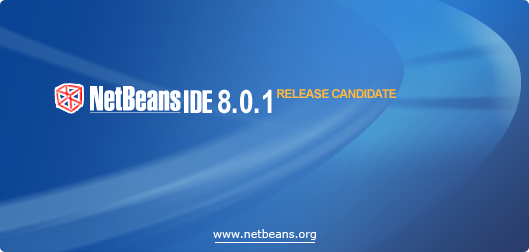
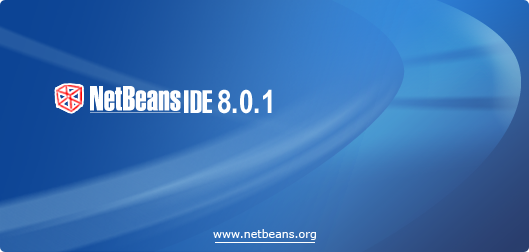
8.0.1 final branding.

Changed region(s): [[0.5142, 0.3333, 0.7561, 0.3889]]

diff --git a/installer/infra/build/web/start.html b/installer/infra/build/web/start.html
@@ -2,7 +2,7 @@
 <!--
   DO NOT ALTER OR REMOVE COPYRIGHT NOTICES OR THIS HEADER.
 
-  Copyright 1997-2010 Oracle and/or its affiliates. All rights reserved.
+  Copyright 1997-2014 Oracle and/or its affiliates. All rights reserved.
 
   Oracle and Java are registered trademarks of Oracle and/or its affiliates.
   Other names may be trademarks of their respective owners.
@@ -180,12 +180,6 @@
                                                     replace("{1}",LICENSE_FILES_LINK).
                                                     replace("{2}",LICENSE_FILES_LINK))
                                             </script>
-                                            <br><br>
-                                                <p>
-                                                    <script type="text/javascript">
-                                                            message(LEGAL_WARNING_MESSAGE)
-                                                    </script>
-                                                </p>
                                         </div>
                                     </div>
 

diff --git a/installer/infra/build/web/index.html b/installer/infra/build/web/index.html
@@ -2,7 +2,7 @@
 <!--
   DO NOT ALTER OR REMOVE COPYRIGHT NOTICES OR THIS HEADER.
 
-  Copyright 1997-2012 Oracle and/or its affiliates. All rights reserved.
+  Copyright 1997-2014 Oracle and/or its affiliates. All rights reserved.
 
   Oracle and Java are registered trademarks of Oracle and/or its affiliates.
   Other names may be trademarks of their respective owners.
@@ -278,12 +278,6 @@
                                         replace("{1}",LICENSE_FILES_LINK).
                                         replace("{2}",LICENSE_FILES_LINK))
                                 </script>
-                                <br><br>
-                                    <p>
-                                        <script type="text/javascript">
-                                                message(LEGAL_WARNING_MESSAGE)
-                                        </script>
-                                    </p>
                             </div>
                         </div>
 

diff --git a/installer/infra/build/web/js/build_info.js b/installer/infra/build/web/js/build_info.js
@@ -64,8 +64,8 @@ build_info.BOUNCER_URL = "http://services.netbeans.org/bouncer/index.php";
 build_info.USE_HTML_ZIP_LISTING = 1;
 
 build_info.add_download_tabs = function() {
-	add_download_tab("8.0", "http://netbeans.org/downloads/");
-	add_download_tab("8.0.1 RC1");
+	add_download_tab("8.0", "http://netbeans.org/downloads/8.0");
+	add_download_tab("8.0.1");
 	add_download_tab(DEVELOPMENT_TITLE,DEVELOPMENT_BUILDS_LINK);
 	add_download_tab(ARCHIVE_TITLE,ARCHIVE_BUILDS_LINK);
 }
